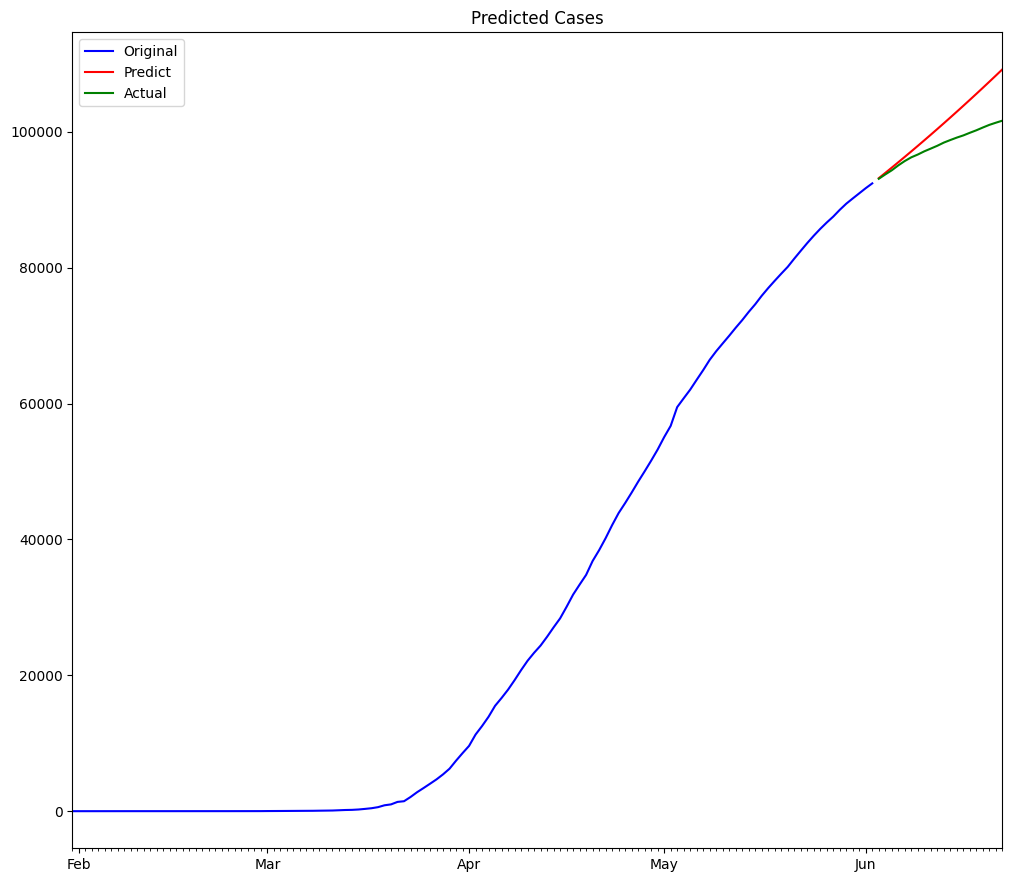
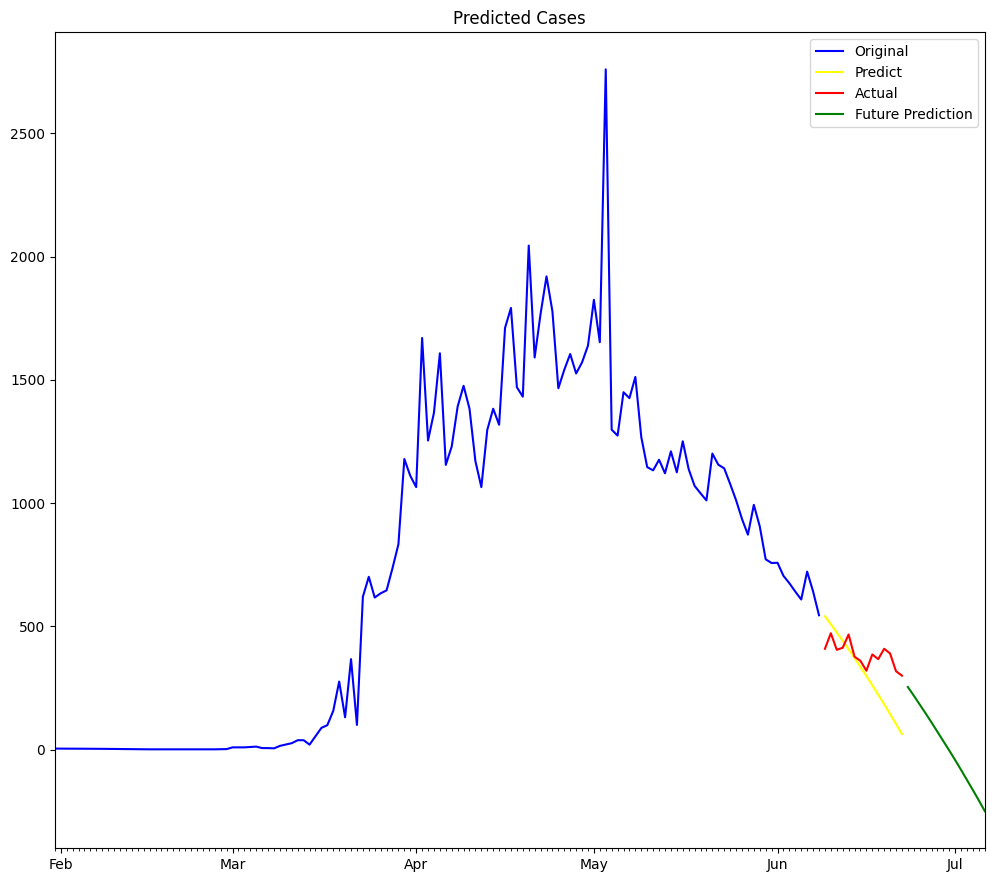
Fix prediction model.

diff --git a/predict_future_cases.py b/predict_future_cases.py
@@ -6,7 +6,13 @@ import matplotlib.pyplot as plt
 from province_wise_plots import init_date_xaxis
 
 
-def plot(dates: List[Timestamp], original: List[int], predict: List[int], actual: List[int]) -> None:
+def plot(
+        dates: List[Timestamp],
+        predict_len: int,
+        original: List[int],
+        compare: List[int],
+        actual: List[int],
+        predict: List[int]) -> None:
     """Plot the predict cases.
 
     Plot the predicted number of cases, actual numbers and previous numbers. And
@@ -14,6 +20,7 @@ def plot(dates: List[Timestamp], original: List[int], predict: List[int], actual
 
     Arguments:
         dates: The date list.
+        predict_len: The predict time length.
         original: The original data list before the prediction date.
         predict: Predicted data list.
         actual: Actual data list.
@@ -24,14 +31,15 @@ def plot(dates: List[Timestamp], original: List[int], predict: List[int], actual
 
     init_date_xaxis()
     plt.plot(dates[:len(original)], original, label='Original', color='blue')
-    plt.plot(dates[len(original):], predict, label='Predict', color='red')
-    plt.plot(dates[len(original):], actual, label='Actual',  color='green')
+    plt.plot(dates[len(original):len(original) + predict_len], compare, label='Predict', color='yellow')
+    plt.plot(dates[len(original):len(original) + predict_len], actual, label='Actual',  color='red')
+    plt.plot(dates[len(original) + predict_len:], predict, label='Future Prediction',  color='green')
     plt.legend()
 
     # Eliminate the margin on the x axis.
     plt.margins(x=0)
 
-    plt.title('Predicted Cases')
+    plt.title('Predicted New Cases per Day')
 
     # Set bbox_inches to 'tight' to remove padding.
     plt.savefig('future_cases.png', bbox_inches='tight')
@@ -41,11 +49,36 @@ def main():
     """The main function."""
 
     data, dates, provinces = get_csv()
-    num_total = data[data['prname'] == 'Canada']['numtotal'].tolist()
 
-    plen = 20
-    model = auto_arima(num_total[:-plen])
-    plot(dates, num_total[:-plen], list(map(int, model.predict(plen))), num_total[-plen:])
+    plen = 14
+
+    # Extend the date list.
+    for i in range(plen):
+        dates.append(dates[-1] + pd.Timedelta(days=1))
+
+    num_total = data[data['prname'] == 'Canada']['numtoday'].tolist()
+
+    model = auto_arima(
+        num_total[:-plen],
+        trend='ct',
+        seasonal=False)
+    compare = list(map(int, model.predict(plen)))
+
+    model = auto_arima(
+        num_total,
+        P=15,
+        trend='ct',
+        seasonal=False)
+
+    predict = list(map(int, model.predict(plen)))
+
+    plot(
+        dates,
+        plen,
+        num_total[:-plen],
+        compare,
+        num_total[-plen:],
+        predict)
 
 
 if __name__ == '__main__':
